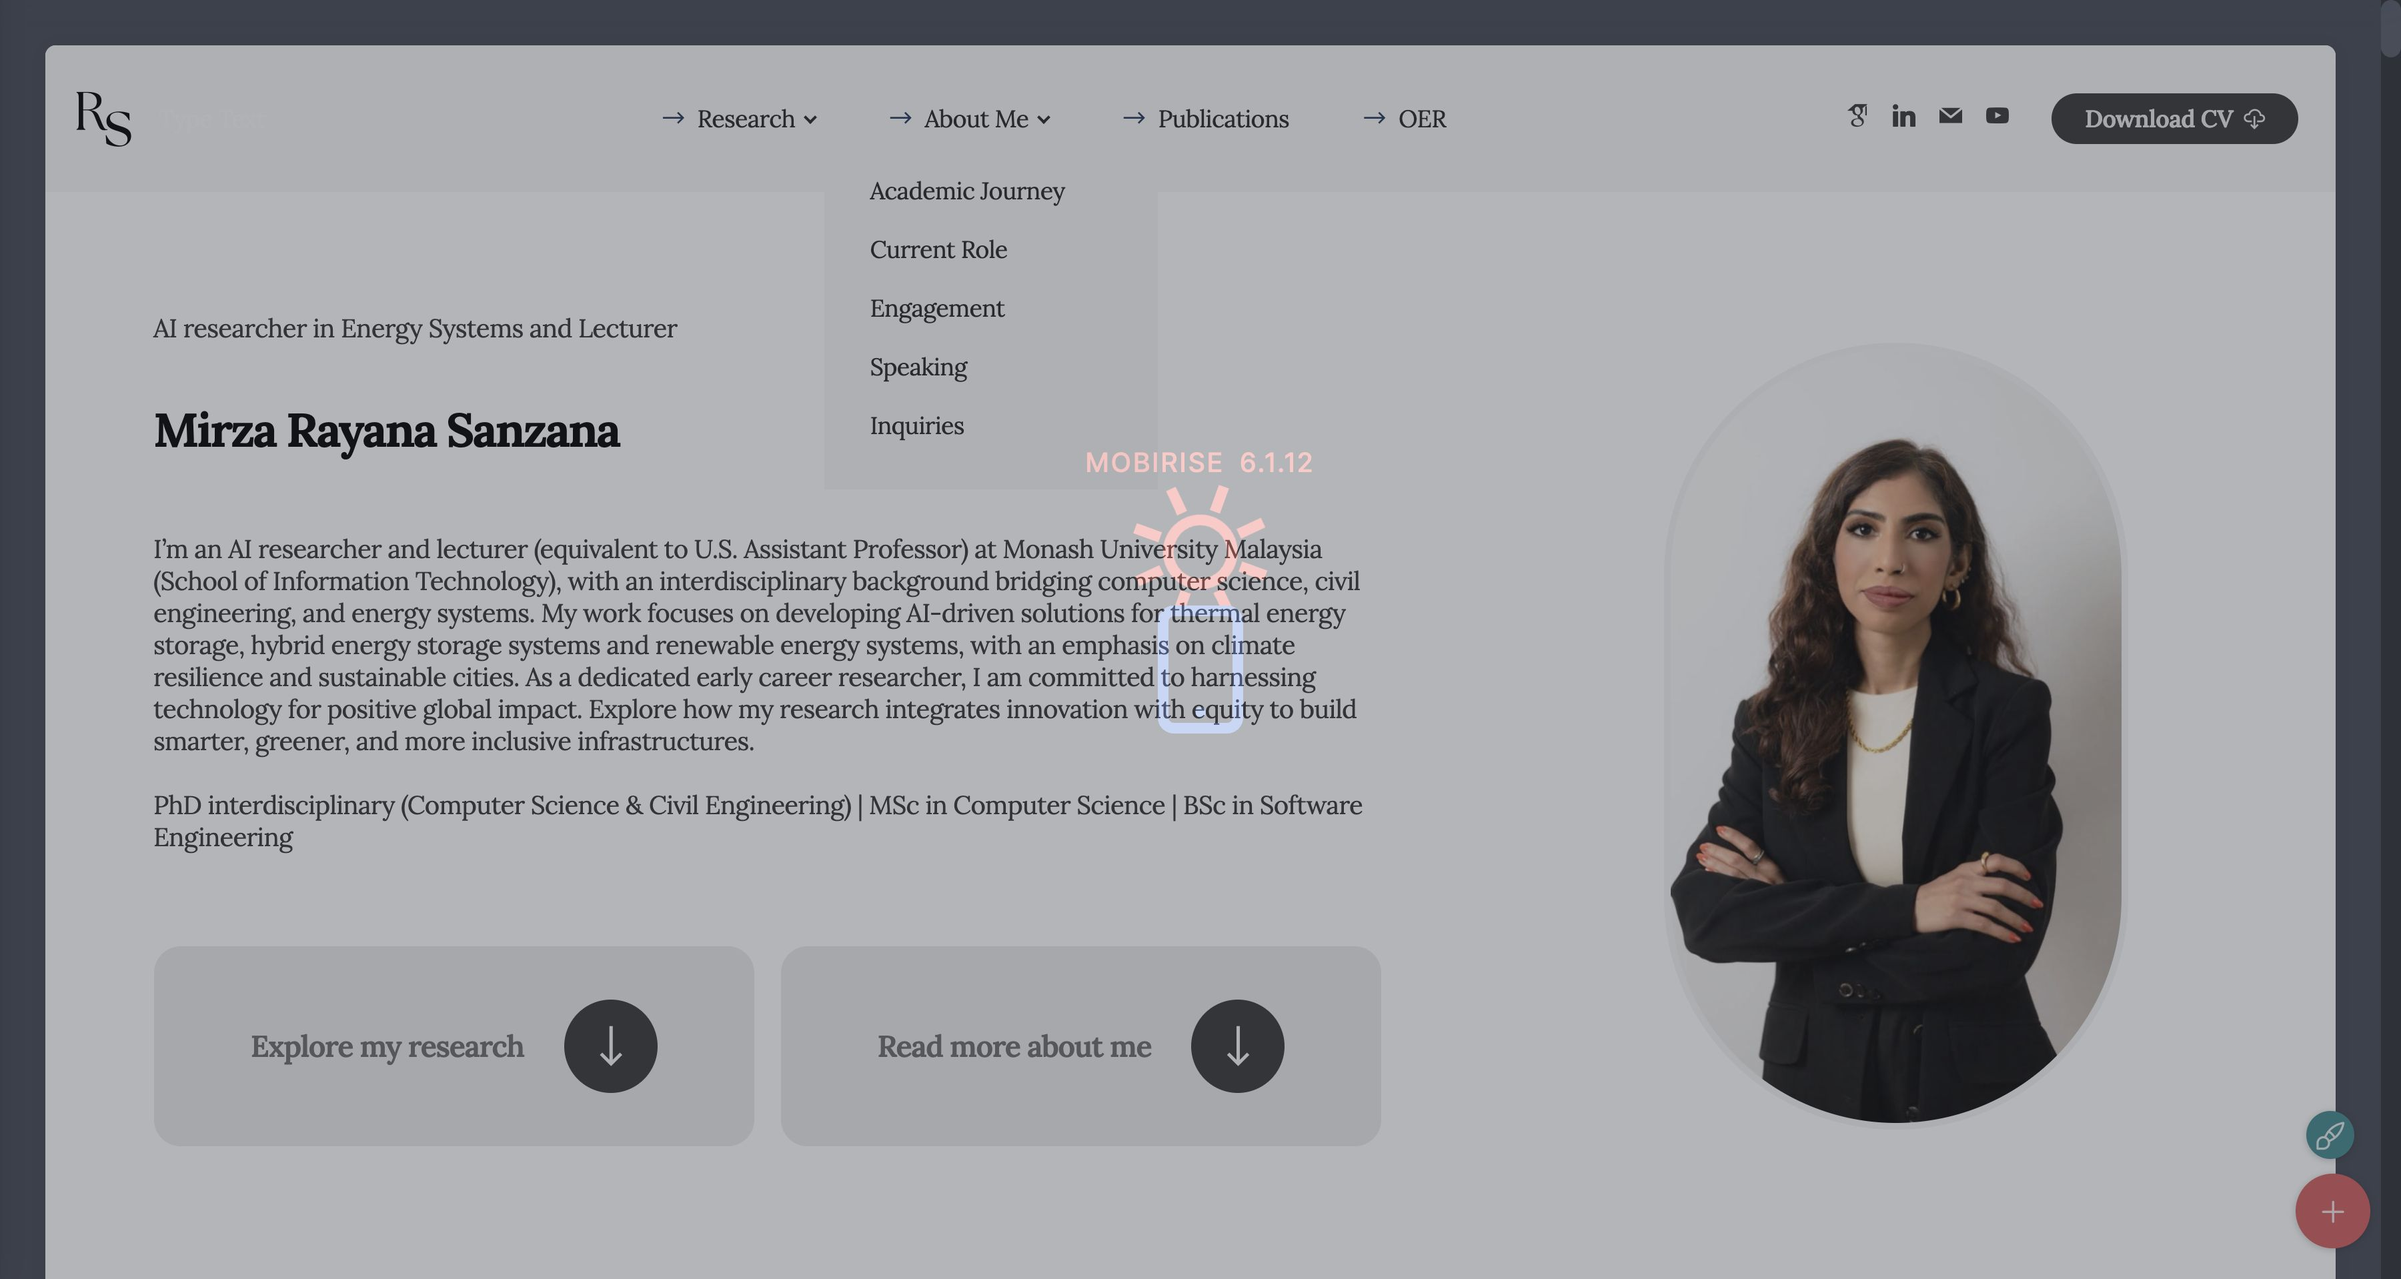
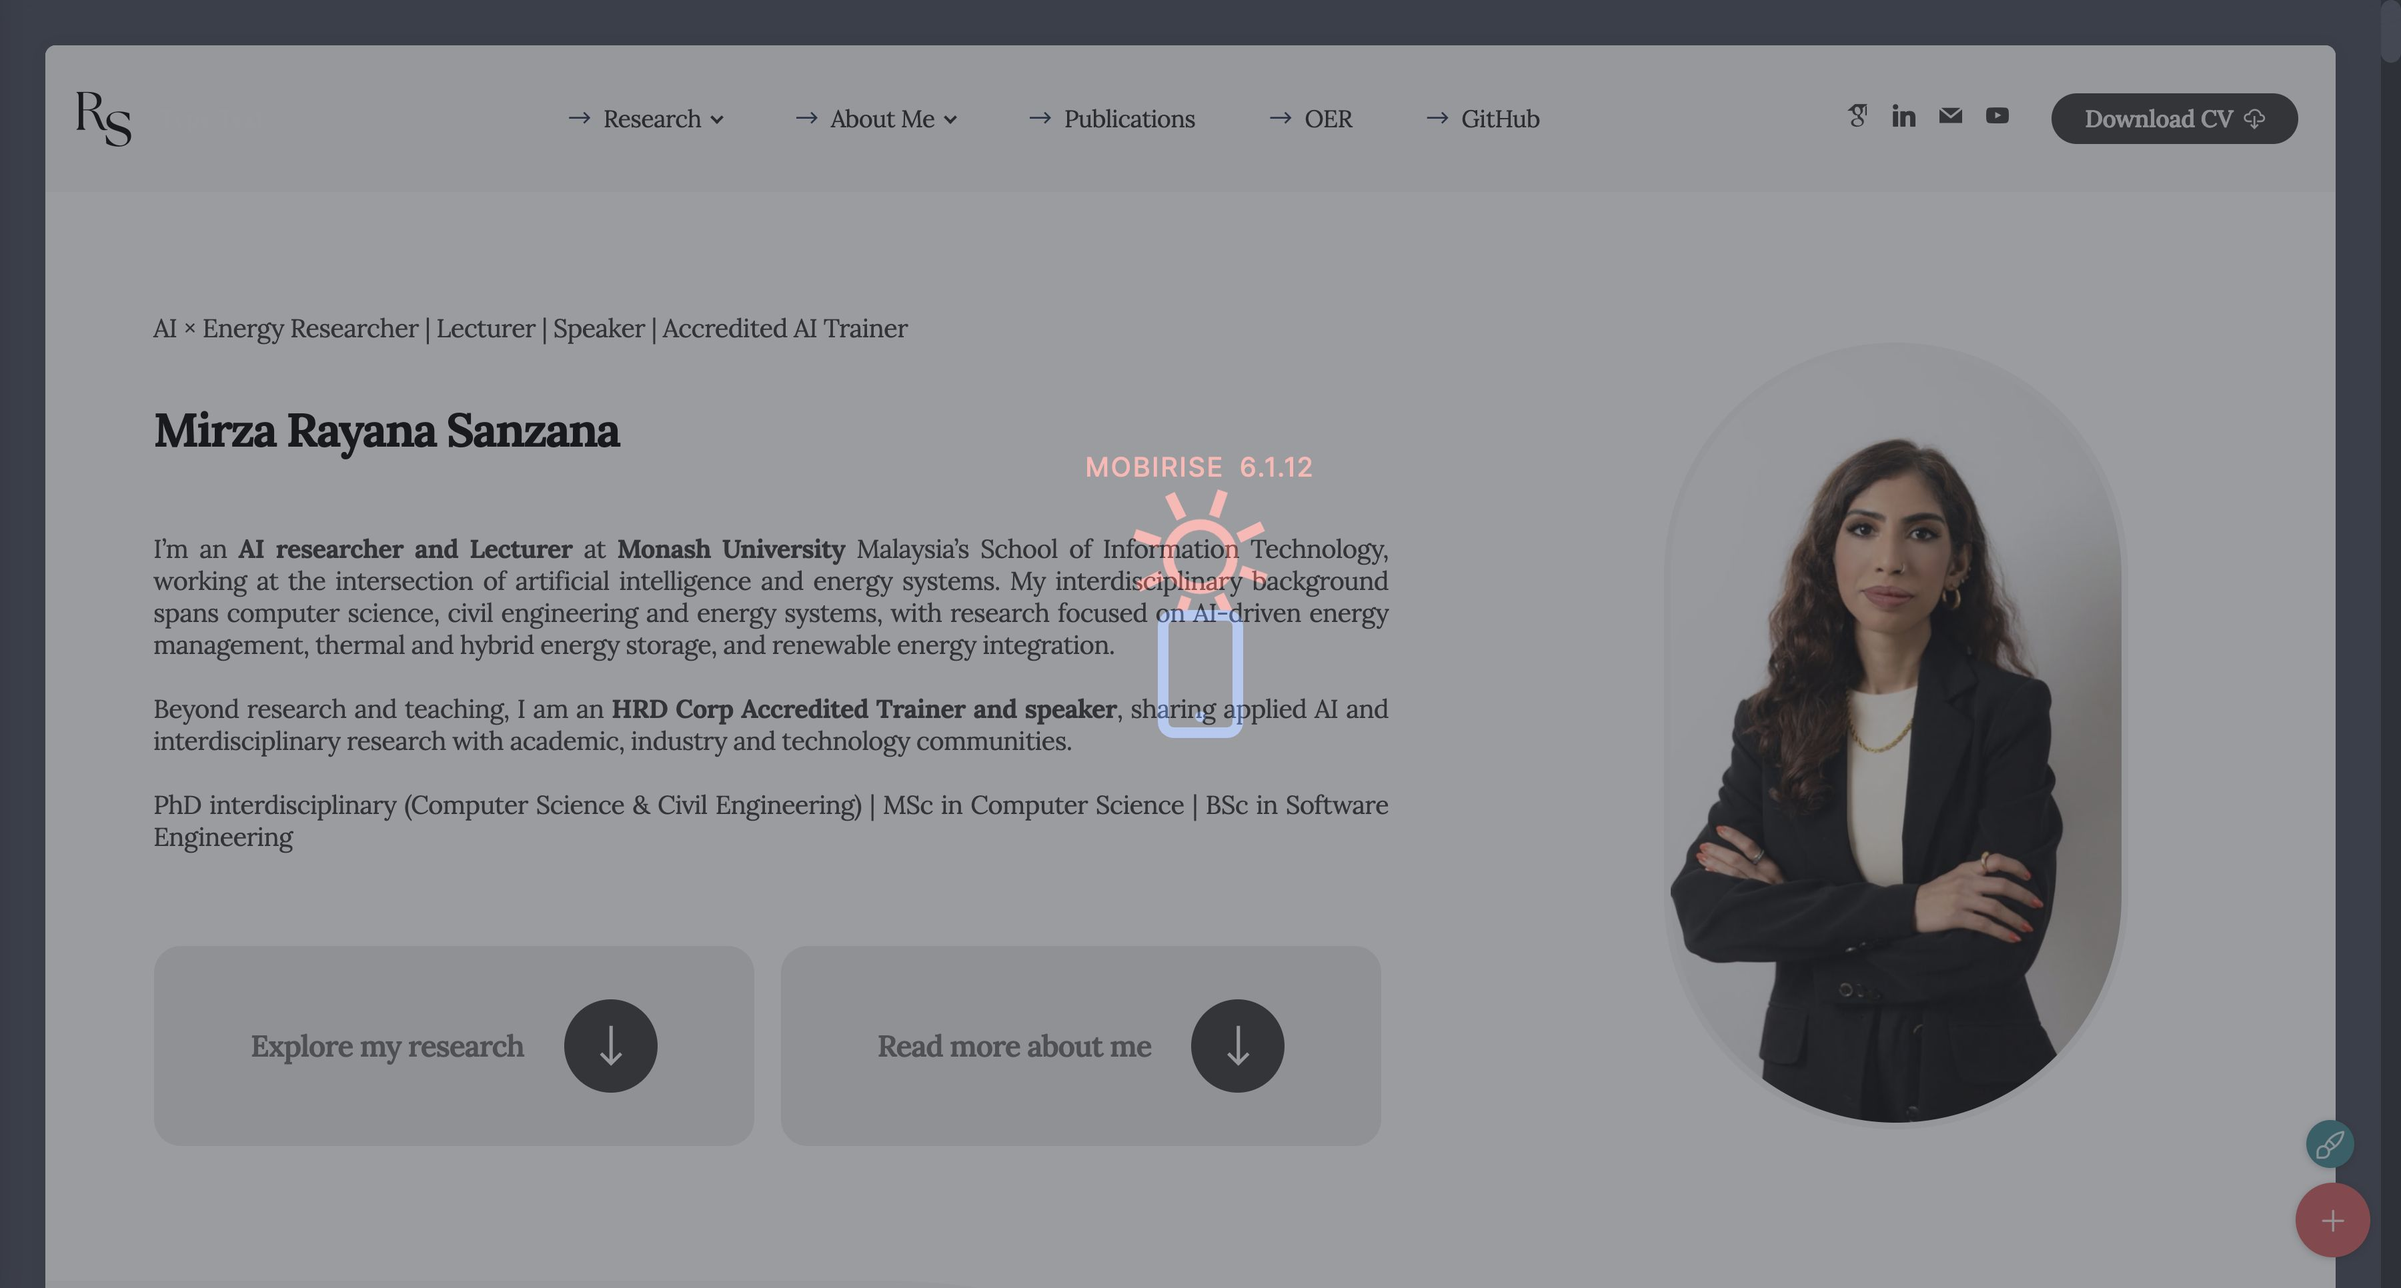
Site update

diff --git a/index.html b/index.html
@@ -25,7 +25,7 @@
   <link rel="stylesheet" href="assets/theme/css/style.css">
   <link rel="preload" href="https://fonts.googleapis.com/css?family=Lora:400,500,600,700,400i,500i,600i,700i&display=swap" as="style" onload="this.onload=null;this.rel='stylesheet'">
   <noscript><link rel="stylesheet" href="https://fonts.googleapis.com/css?family=Lora:400,500,600,700,400i,500i,600i,700i&display=swap"></noscript>
-  <link rel="preload" as="style" href="assets/mobirise/css/mbr-additional.css?v=RvlNuQ"><link rel="stylesheet" href="assets/mobirise/css/mbr-additional.css?v=RvlNuQ" type="text/css">
+  <link rel="preload" as="style" href="assets/mobirise/css/mbr-additional.css?v=5VGdUk"><link rel="stylesheet" href="assets/mobirise/css/mbr-additional.css?v=5VGdUk" type="text/css">
 
   
   
@@ -1448,15 +1448,15 @@
                     <h2 class="mbr-section-title mbr-fonts-style display-2"><strong>
                         Inquiries</strong></h2>
                 </div>
-                <div id="bootstrap-accordion_21" class="panel-group accordionStyles accordion" role="tablist" aria-multiselectable="true">
+                <div id="bootstrap-accordion_22" class="panel-group accordionStyles accordion" role="tablist" aria-multiselectable="true">
                     <div class="card">
                         <div class="card-header" role="tab" id="headingOne">
-                            <a role="button" class="panel-title collapsed" data-toggle="collapse" data-bs-toggle="collapse" data-core="" href="#collapse1_21" aria-expanded="false" aria-controls="collapse1">
+                            <a role="button" class="panel-title collapsed" data-toggle="collapse" data-bs-toggle="collapse" data-core="" href="#collapse1_22" aria-expanded="false" aria-controls="collapse1">
                                 <h4 class="panel-title-edit mbr-fonts-style display-5">What is your primary area of research?</h4>
                                 <span class="sign mbr-iconfont mobi-mbri-down mobi-mbri"></span>
                             </a>
                         </div>
-                        <div id="collapse1_21" class="panel-collapse noScroll collapse" role="tabpanel" aria-labelledby="headingOne" data-parent="#accordion" data-bs-parent="#bootstrap-accordion_21">
+                        <div id="collapse1_22" class="panel-collapse noScroll collapse" role="tabpanel" aria-labelledby="headingOne" data-parent="#accordion" data-bs-parent="#bootstrap-accordion_22">
                             <div class="panel-body">
                                 <p class="mbr-fonts-style panel-text display-7">
                                     My core research focuses on applying artificial intelligence to optimize energy systems—particularly renewable energy integration, energy storage, and climate-resilient infrastructure. I explore how AI can enhance sustainable cities, building technologies, and smart mobility. My interests also extend to early cancer detection using computer vision, V2X communication security for autonomous vehicles, and AI-driven solutions for urban climate adaptation. I’m passionate about environmental sustainability, investigating how drone technology and Geographic Information Systems (GIS) can support waste management. Additionally, as an educator, I explore tech-driven, interactive learning environments to advance education and improve accessibility in STEM.
@@ -1466,12 +1466,12 @@
                     </div>
                     <div class="card">
                         <div class="card-header" role="tab" id="headingTwo">
-                            <a role="button" class="panel-title collapsed" data-toggle="collapse" data-bs-toggle="collapse" data-core="" href="#collapse2_21" aria-expanded="false" aria-controls="collapse2">
+                            <a role="button" class="panel-title collapsed" data-toggle="collapse" data-bs-toggle="collapse" data-core="" href="#collapse2_22" aria-expanded="false" aria-controls="collapse2">
                                 <h4 class="panel-title-edit mbr-fonts-style display-5">What are your most significant research contributions?</h4>
                                 <span class="sign mbr-iconfont mobi-mbri-down mobi-mbri"></span>
                             </a>
                         </div>
-                        <div id="collapse2_21" class="panel-collapse noScroll collapse" role="tabpanel" aria-labelledby="headingTwo" data-parent="#accordion" data-bs-parent="#bootstrap-accordion_21">
+                        <div id="collapse2_22" class="panel-collapse noScroll collapse" role="tabpanel" aria-labelledby="headingTwo" data-parent="#accordion" data-bs-parent="#bootstrap-accordion_22">
                             <div class="panel-body">
                                 <p class="mbr-fonts-style panel-text display-7">
                                     My most significant contributions include applying deep learning in facility management to optimize HVAC systems, leading to improved predictive maintenance, energy efficiency, and reduced operational costs. I have developed a machine learning model with a 93.4% accuracy rate for predicting water load in Thermal-Energy-Storage Air-Conditioning systems, enhancing sustainability in building operations. As part of the EY Open Science Data Challenge, I developed a location-agnostic machine learning model to support urban planning and mitigate Urban Heat Island (UHI) effects. By relying solely on environmental and structural features—without using geolocation data—the model achieved a prediction accuracy of 92%. This approach supports scalable, ethical, and transferable planning solutions for climate-resilient cities, particularly in under-mapped or data-scarce regions. Additionally, my research in educational technology has demonstrated that combining virtual reality games with traditional lectures can significantly boost learning outcomes, and I have pioneered the use of gamified virtual labs for low-risk, interactive learning in science education.
@@ -1481,12 +1481,12 @@
                     </div>
                     <div class="card">
                         <div class="card-header" role="tab" id="headingThree">
-                            <a role="button" class="panel-title collapsed" data-toggle="collapse" data-bs-toggle="collapse" data-core="" href="#collapse3_21" aria-expanded="false" aria-controls="collapse3">
+                            <a role="button" class="panel-title collapsed" data-toggle="collapse" data-bs-toggle="collapse" data-core="" href="#collapse3_22" aria-expanded="false" aria-controls="collapse3">
                                 <h4 class="panel-title-edit mbr-fonts-style display-5">Where can I find your published work?</h4>
                                 <span class="sign mbr-iconfont mobi-mbri-down mobi-mbri"></span>
                             </a>
                         </div>
-                        <div id="collapse3_21" class="panel-collapse noScroll collapse" role="tabpanel" aria-labelledby="headingThree" data-parent="#accordion" data-bs-parent="#bootstrap-accordion_21">
+                        <div id="collapse3_22" class="panel-collapse noScroll collapse" role="tabpanel" aria-labelledby="headingThree" data-parent="#accordion" data-bs-parent="#bootstrap-accordion_22">
                             <div class="panel-body">
                                 <p class="mbr-fonts-style panel-text display-7">
                                     You can find my published work in various journals and conference proceedings, including <em>Automation in Construction, Energy Nexus, Journal of Building Engineering</em> (Elsevier), <em>Simulation and Gaming </em>(SAGE), and the <em>Journal of Applied Research in Higher Education </em>(Emerald Insights). I have also presented at IEEE and MDPI conferences. A complete list of my publications is available on my <a href="https://scholar.google.com/citations?user=Wz9AAP4AAAAJ&hl=en&authuser=5" class="text-warning" target="_blank">Google Scholar profile</a>, <a href="https://www.researchgate.net/profile/Mirza-Sanzana" class="text-warning" target="_blank">ResearchGate profile</a>, and <a href="https://www.linkedin.com/in/mirza-rayana-sanzana/" class="text-warning" target="_blank">LinkedIn profile</a>.
@@ -1496,12 +1496,12 @@
                     </div>
                     <div class="card">
                         <div class="card-header" role="tab" id="headingFour">
-                            <a role="button" class="panel-title collapsed" data-toggle="collapse" data-bs-toggle="collapse" data-core="" href="#collapse4_21" aria-expanded="false" aria-controls="collapse4">
+                            <a role="button" class="panel-title collapsed" data-toggle="collapse" data-bs-toggle="collapse" data-core="" href="#collapse4_22" aria-expanded="false" aria-controls="collapse4">
                                 <h4 class="panel-title-edit mbr-fonts-style display-5">a) Are you open to research collaborations? b) Can you supervise undergraduate or postgraduate students? c) What kind of research projects do you supervise?&nbsp;</h4>
                                 <span class="sign mbr-iconfont mobi-mbri-down mobi-mbri"></span>
                             </a>
                         </div>
-                        <div id="collapse4_21" class="panel-collapse noScroll collapse" role="tabpanel" aria-labelledby="headingFour" data-parent="#accordion" data-bs-parent="#bootstrap-accordion_21">
+                        <div id="collapse4_22" class="panel-collapse noScroll collapse" role="tabpanel" aria-labelledby="headingFour" data-parent="#accordion" data-bs-parent="#bootstrap-accordion_22">
                             <div class="panel-body">
                                 <p class="mbr-fonts-style panel-text display-7">a) Yes, I am open to research collaborations that align with my expertise in artificial intelligence, sustainable building technologies, autonomous vehicle security, and early cancer detection. I am also interested in exploring research in national security, particularly in the areas of cybersecurity and stability in the context of cyberweapons. If you have a project in mind, please feel free to contact me through my <a href="https://www.linkedin.com/in/mirza-rayana-sanzana/" class="text-warning" target="_blank">LinkedIn profile</a>.&nbsp;<br>b) Yes, I am open to supervising final-year or Master’s-level students interested in areas such as AI, renewable energy systems, digital twins, and smart cities. If you're exploring a project aligned with my research interests, feel free to reach out.<br>c) I enjoy working on interdisciplinary, applied AI research that has societal and environmental impact. This includes themes like energy storage optimization, sustainable urban technologies, and secure autonomous systems.
 <br>
@@ -1511,30 +1511,18 @@
                     </div>
                     <div class="card">
                         <div class="card-header" role="tab" id="headingFive">
-                            <a role="button" class="panel-title collapsed" data-toggle="collapse" data-bs-toggle="collapse" data-core="" href="#collapse5_21" aria-expanded="false" aria-controls="collapse5">
-                                <h4 class="panel-title-edit mbr-fonts-style display-5">What teaching experience do you have? What subjects do you teach?</h4>
+                            <a role="button" class="panel-title collapsed" data-toggle="collapse" data-bs-toggle="collapse" data-core="" href="#collapse5_22" aria-expanded="false" aria-controls="collapse5">
+                                <h4 class="panel-title-edit mbr-fonts-style display-5">a) Do you have experience working on funded or applied research projects? b) Are you open to industry or international research collaborations?&nbsp;</h4>
                                 <span class="sign mbr-iconfont mobi-mbri-down mobi-mbri"></span>
                             </a>
                         </div>
-                        <div id="collapse5_21" class="panel-collapse noScroll collapse" role="tabpanel" aria-labelledby="headingFive" data-parent="#accordion" data-bs-parent="#bootstrap-accordion_21">
+                        <div id="collapse5_22" class="panel-collapse noScroll collapse" role="tabpanel" aria-labelledby="headingFive" data-parent="#accordion" data-bs-parent="#bootstrap-accordion_22">
                             <div class="panel-body">
-                                <p class="mbr-fonts-style panel-text display-7">I am certified to teach and have received certification in postgraduate teacher training. I have experience teaching and mentoring students at both undergraduate and postgraduate levels, serving as a Graduate Teaching Assistant and lab instructor, focusing on software engineering, civil engineering, and computer science. My roles have included grading, tutoring, preparing lab materials, assessing coursework, and providing academic mentorship to help students deepen their understanding of complex concepts. To commence my role in Monash University Malaysia, I will complete Monash University's Higher Education and obtain Teaching Permit from the Ministry of Higher Education Malaysia. As my modules are finalized, I’ll update the site with more details.<br></p>
+                                <p class="mbr-fonts-style panel-text display-7">a) Yes, I’ve collaborated with commercial stakeholders during my PhD and am currently developing proposals for MSCA and ERC grants focused on AI for sustainable energy. My goal is to expand into applied, high-impact collaborations.<br>b)  Absolutely. I actively seek opportunities to collaborate on research that bridges academia with real-world needs—especially in energy systems, green infrastructure, and AI applications. Please reach out if you’re exploring project partnerships or joint proposals.<br></p>
                             </div>
                         </div>
                     </div>
-                    <div class="card">
-                        <div class="card-header" role="tab" id="headingSix">
-                            <a role="button" class="panel-title collapsed" data-toggle="collapse" data-bs-toggle="collapse" data-core="" href="#collapse6_21" aria-expanded="false" aria-controls="collapse6">
-                                <h4 class="panel-title-edit mbr-fonts-style display-5">a) Do you have experience working on funded or applied research projects? b) Are you open to industry or international research collaborations?&nbsp;&nbsp;</h4>
-                                <span class="sign mbr-iconfont mobi-mbri-down mobi-mbri"></span>
-                            </a>
-                        </div>
-                        <div id="collapse6_21" class="panel-collapse noScroll collapse" role="tabpanel" aria-labelledby="headingSix" data-parent="#accordion" data-bs-parent="#bootstrap-accordion_21">
-                            <div class="panel-body">
-                                <p class="mbr-fonts-style panel-text display-7">a) Yes, I’ve collaborated with commercial stakeholders during my PhD and am currently developing proposals for MSCA and ERC grants focused on AI for sustainable energy. My goal is to expand into applied, high-impact collaborations.<br>b)&nbsp; Absolutely. I actively seek opportunities to collaborate on research that bridges academia with real-world needs—especially in energy systems, green infrastructure, and AI applications. Please reach out if you’re exploring project partnerships or joint proposals.</p>
-                            </div>
-                        </div>
-                    </div>
+                    
                 </div>
             </div>
         </div>
